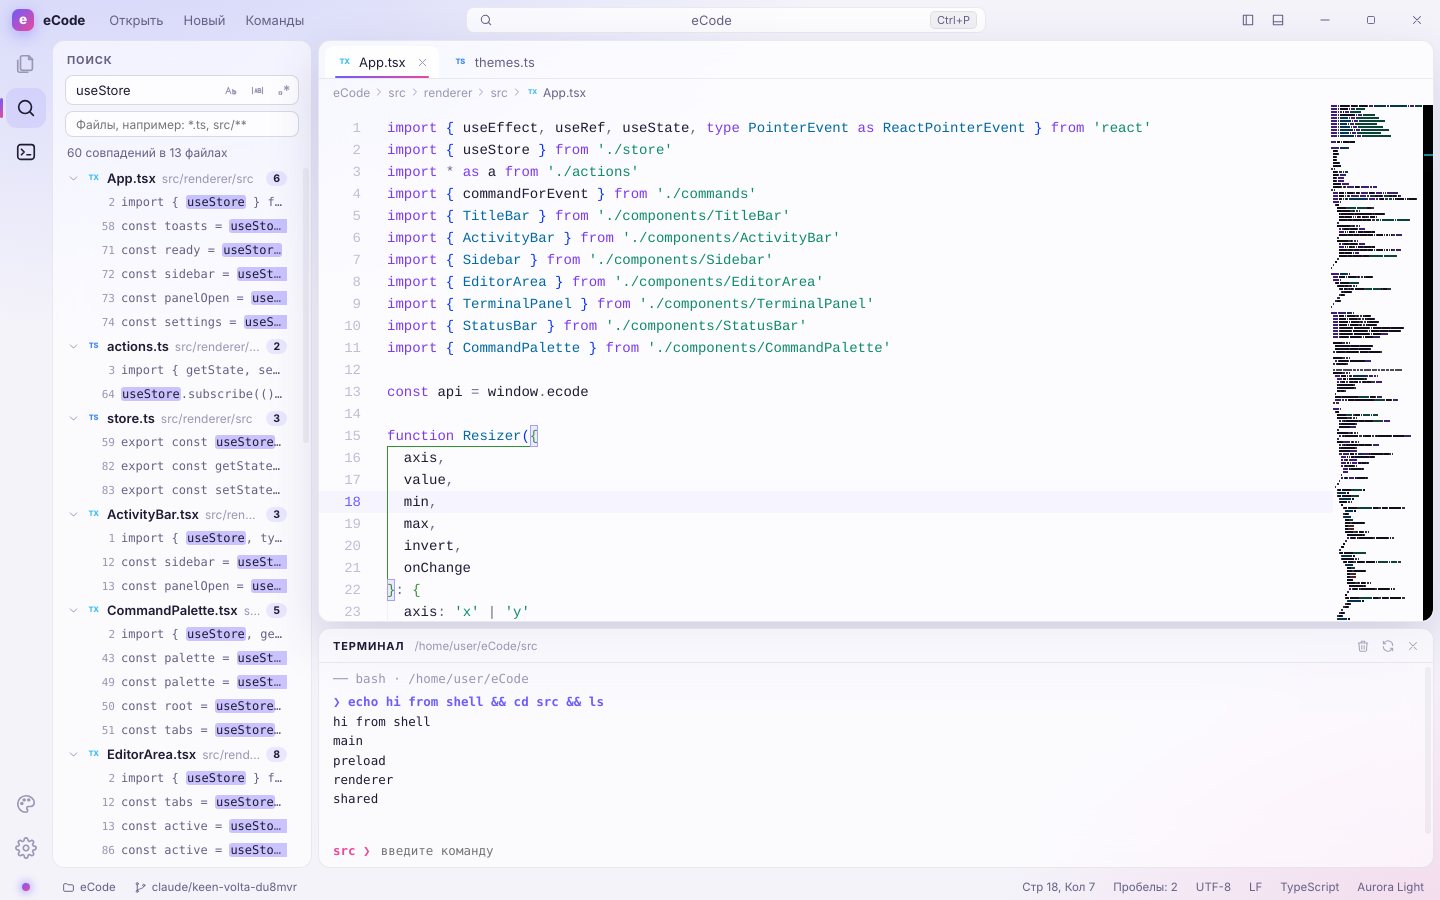
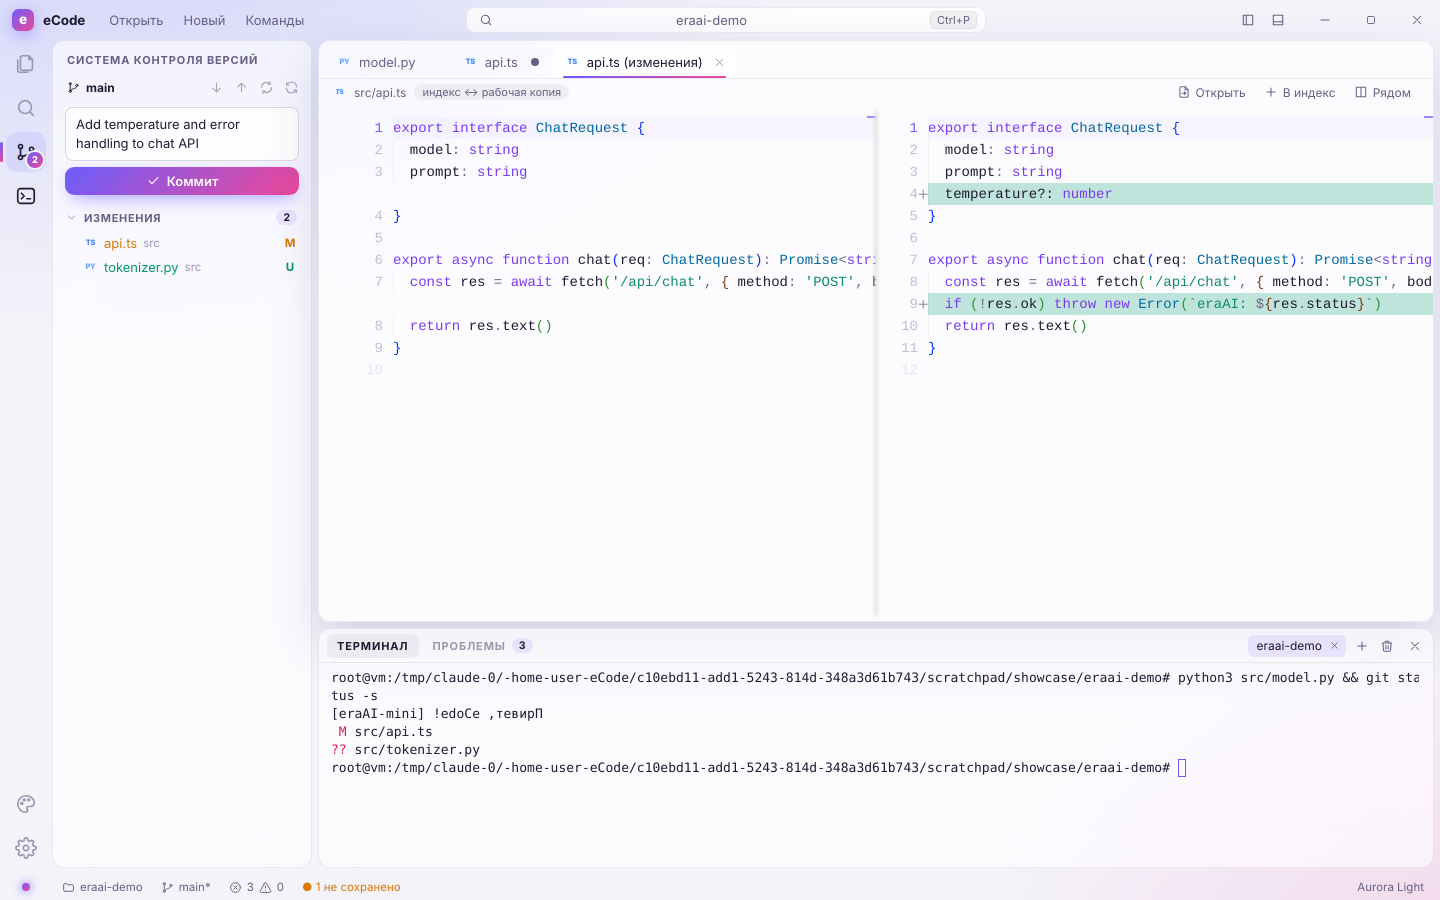
Fix window widening on long content, add roadmap, refresh screenshots
The app grid's implicit auto column grew to the min-content width of
unbreakable content (e.g. a long message in the Problems panel), pushing
the title bar controls and status bar off-screen. Clamp it with
minmax(0, 1fr).

README: roadmap (eraAI integration, IDE polish, Electron slimming, Tauri
port with its trade-offs) and current screenshots of all three themes.

Claude-Session: https://claude.ai/code/session_01MBVTxv6wnTpjPkDWkEqNPP

diff --git a/src/renderer/src/styles/app.css b/src/renderer/src/styles/app.css
@@ -90,7 +90,9 @@ kbd {
   position: relative;
   overflow: clip;
   display: grid;
-  grid-template-rows: var(--titlebar-h) 1fr var(--statusbar-h);
+  /* minmax(0, …): long unbreakable content (problems, paths) must not widen the window. */
+  grid-template-columns: minmax(0, 1fr);
+  grid-template-rows: var(--titlebar-h) minmax(0, 1fr) var(--statusbar-h);
   height: 100%;
   opacity: 0;
   transition: opacity 0.25s var(--ease);

diff --git a/README.md b/README.md
@@ -2,7 +2,7 @@
 
 **For humans and comfort.** Быстрый и красивый редактор кода в стиле eraAI: Electron + React + Monaco (то же ядро редактора, что и в VS Code).
 
-![Git, диффы и терминал](docs/screenshots/git-diff.png)
+![eCode](docs/screenshots/era-glass.png)
 
 ## Возможности
 
@@ -37,6 +37,18 @@
 | Тёмное стекло, фиолетово-бирюзовое свечение. Фирменный стиль eraAI. | Матовый графит без размытия, янтарные акценты. Самый быстрый на слабом железе. | Светлое матовое стекло с мягким сиянием. Для дневной работы. |
 
 Тема описывается одним объектом в `src/renderer/src/themes.ts` (CSS-переменные интерфейса и цвета Monaco), поэтому новая добавляется за несколько минут.
+
+## План развития
+
+1. **Интеграция eraAI**: чат в боковой панели, подсказки ИИ прямо в коде, команда «объясни или исправь выделенное». Модель подключается как локальный HTTP-сервер.
+2. **Доработка IDE**: поиск всех ссылок (Shift+F12), быстрые исправления (лампочка), отметки изменений git на полях редактора, языковые серверы для Go, Rust и C++.
+3. **Облегчение Electron-версии** (часы работы): загрузка языков Monaco по требованию, сжатие установщика.
+4. **Порт на Tauri (Rust)**, когда функциональность устоится.
+   - Интерфейс на React переносится почти без изменений: меняется только реализация `window.ecode`.
+   - На Rust переписывается `src/main/` (~1200 строк): файлы и поиск, терминал (portable-pty), git, запуск языковых серверов, диалоги.
+   - Pyright и typescript-language-server написаны на JS, поэтому в установщик придётся положить Node (+40–50 МБ) или требовать его у пользователя.
+   - Системный webview отличается: Chromium на Windows, Safari на macOS, WebKitGTK на Linux (там Monaco медленнее). Нужна проверка на всех трёх ОС.
+   - Ожидаемый выигрыш: установщик ~60 МБ вместо ~170 МБ, памяти на 100–200 МБ меньше. Основную память занимают языковые серверы, от них Tauri не избавит.
 
 ## Запуск
 
